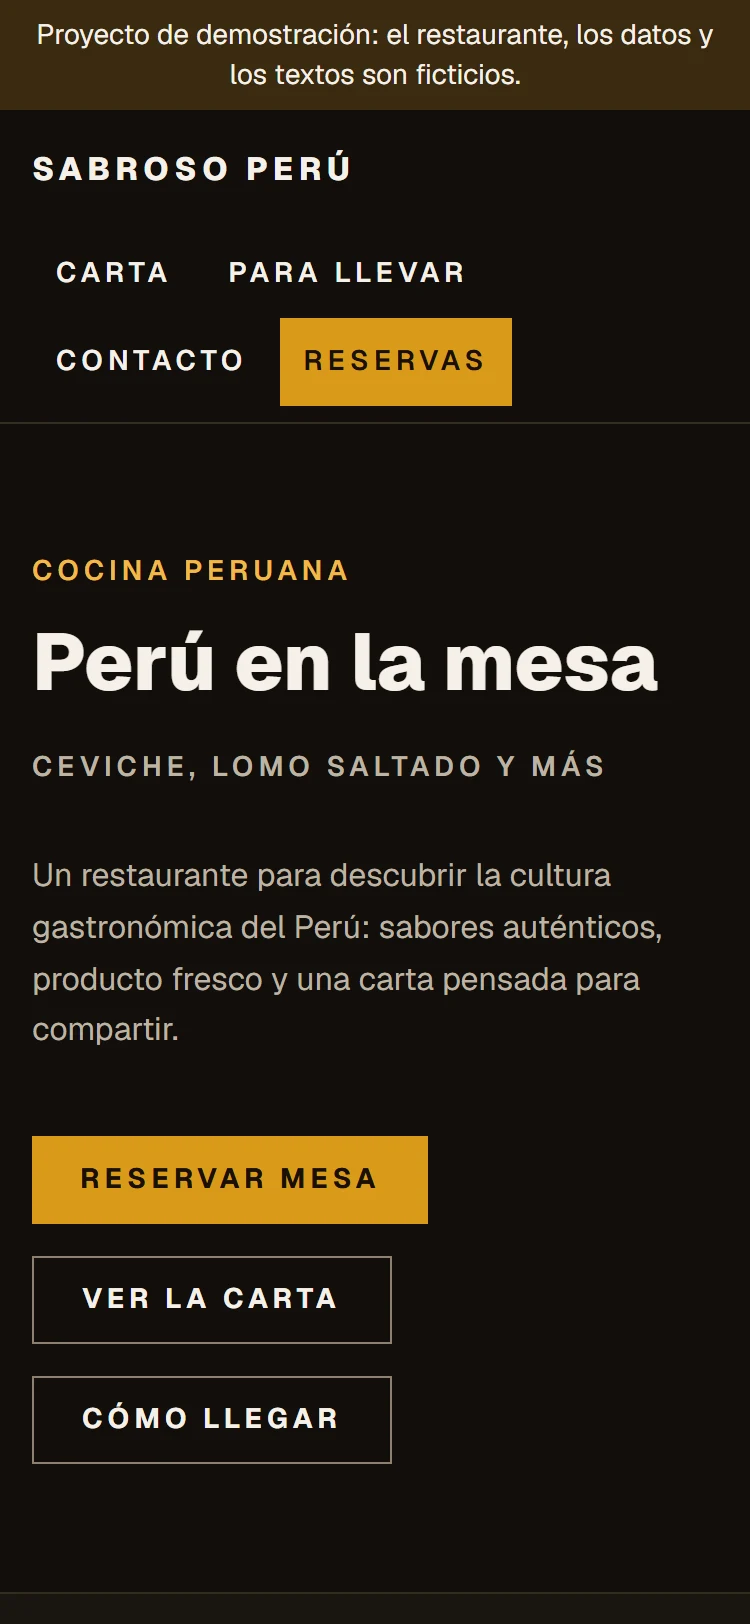
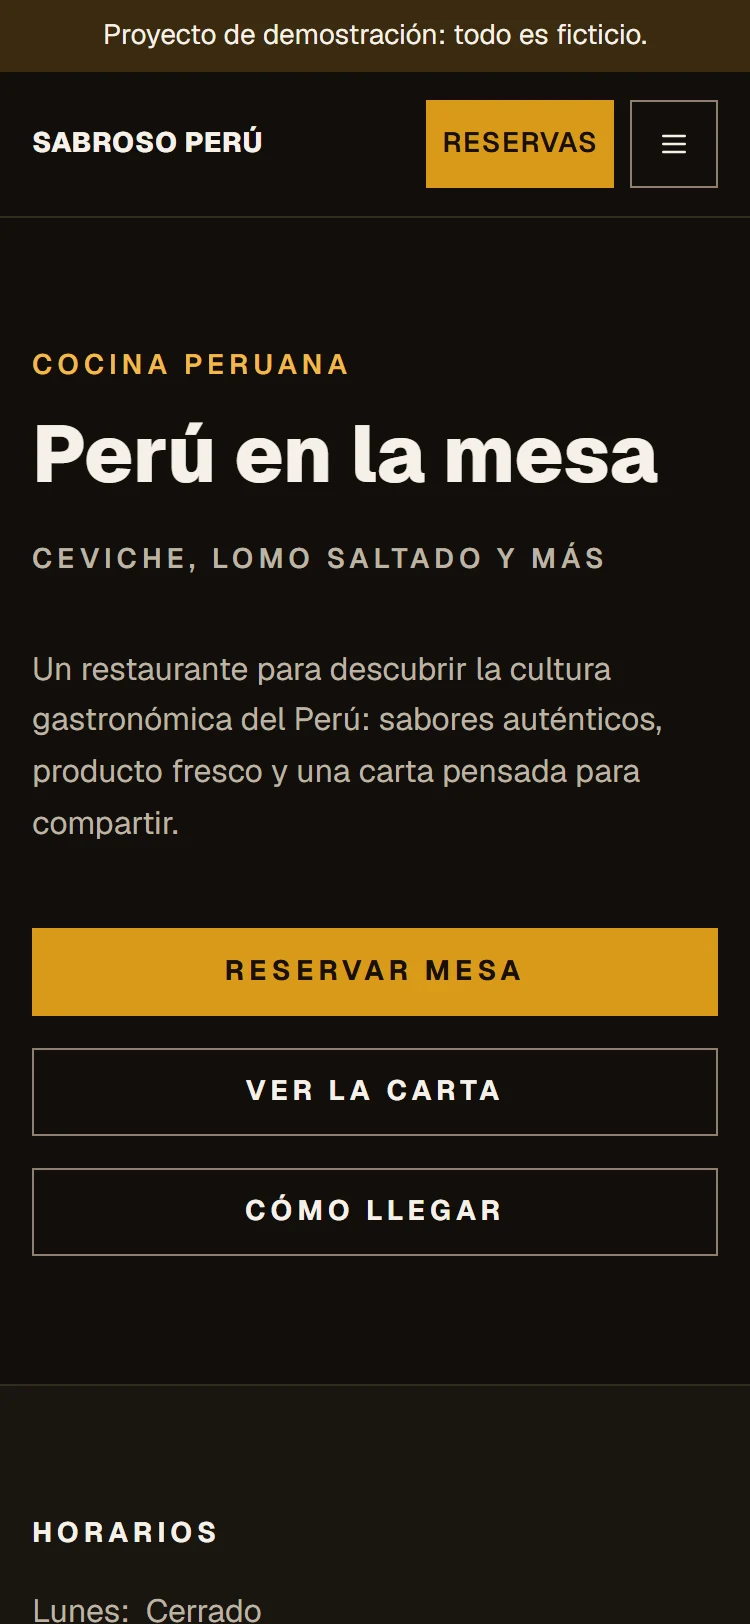
T44 · Capturas actualizadas con la cabecera móvil nueva
La demo de Sabroso Perú tiene ahora una cabecera responsive con menú
desplegable y una franja de demostración más corta. Se regeneran las dos
capturas con `pnpm screenshots` y se actualiza el texto alternativo móvil.

diff --git a/src/content/work/sabroso-peru/meta.ts b/src/content/work/sabroso-peru/meta.ts
@@ -63,8 +63,8 @@ export const meta = {
     mobile: {
       src: mobile,
       alt: {
-        es: 'Sabroso Perú en el móvil: cabecera con el menú, titular «Perú en la mesa» y botones para reservar mesa, ver la carta y cómo llegar',
-        en: 'Sabroso Perú on a phone: a header with the menu, the headline «Perú en la mesa» and buttons to book a table, see the menu and get directions',
+        es: 'Sabroso Perú en el móvil: cabecera con el botón Reservas y un menú desplegable, titular «Perú en la mesa» y botones para reservar mesa, ver la carta y cómo llegar',
+        en: 'Sabroso Perú on a phone: a header with a Reservas button and a drop-down menu, the headline «Perú en la mesa» and buttons to book a table, see the menu and get directions',
       },
     },
     thumb: coverImage,
